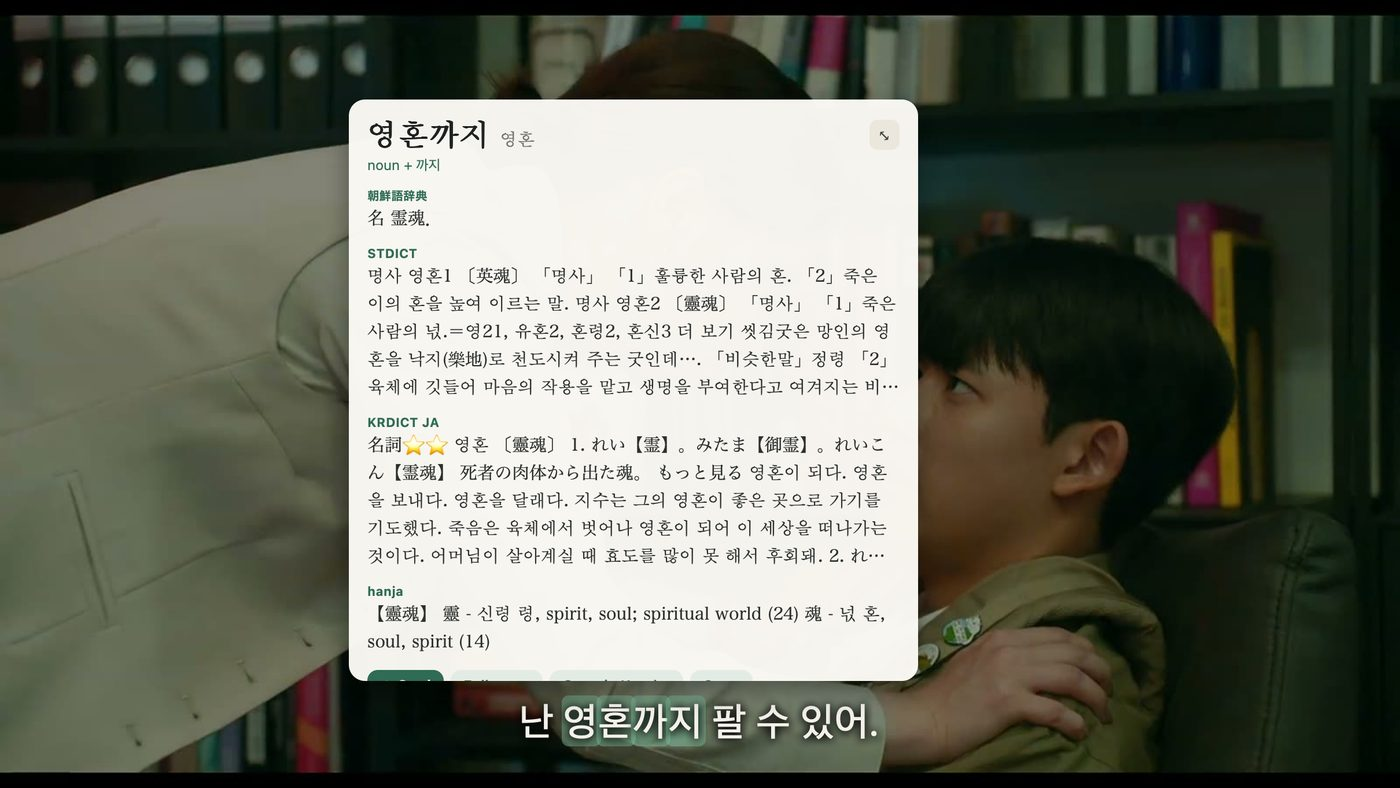
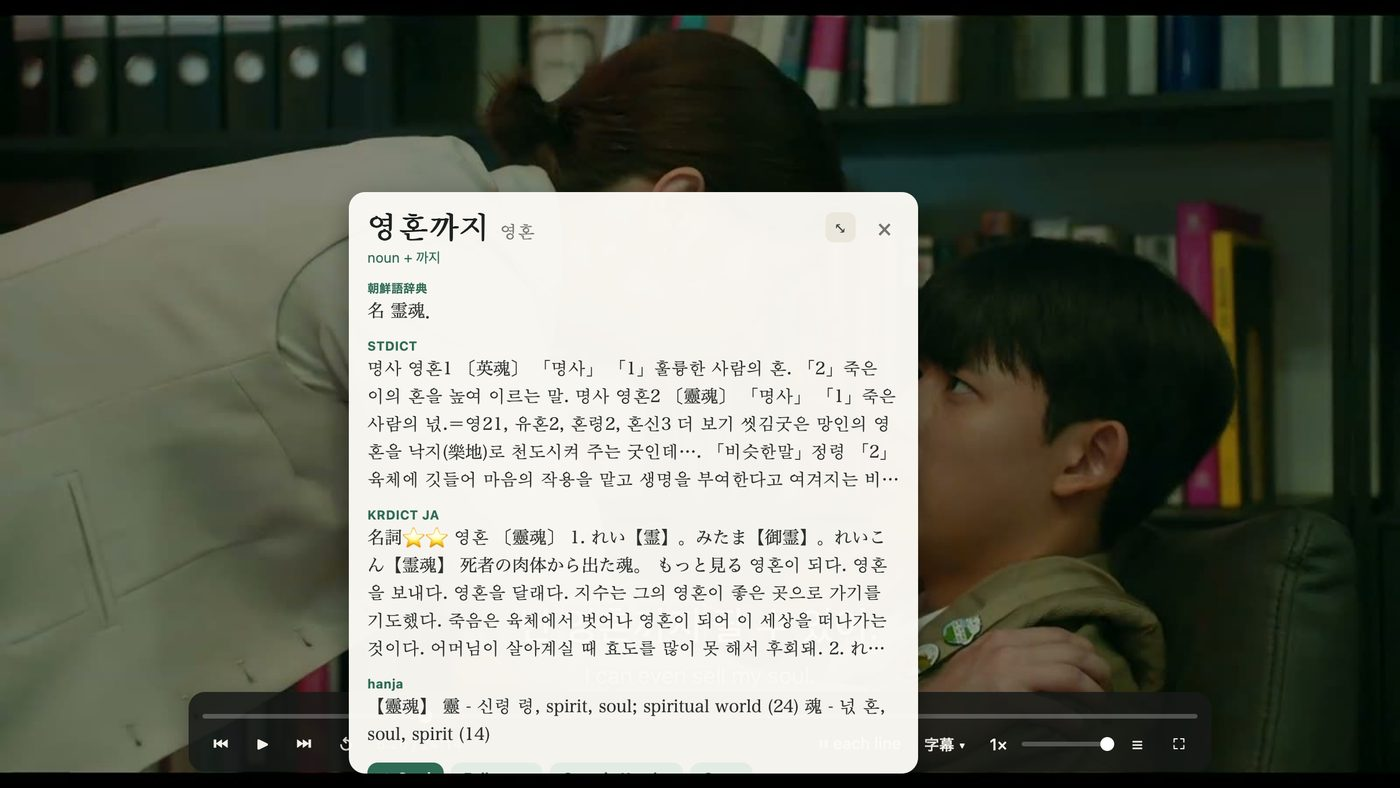
Lookup popups get a close button (player and Firefox helper)

Changed region(s): [[0.1229, 0.1218, 0.86, 1.0]]

diff --git a/desktop/web/kotoba-video.user.js b/desktop/web/kotoba-video.user.js
@@ -74,6 +74,8 @@
     #kotoba-video-pop .k-saved { margin-left: auto; color: #a8841e; font-size: 12px; font-weight: 600; }
     #kotoba-video-pop .k-size { align-self: center; margin-left: auto; border: 0; background: #ece7dc; color: #3d433f; border-radius: 7px; width: 26px; height: 26px; font-size: 17px; line-height: 26px; padding: 0; cursor: pointer; }
     #kotoba-video-pop .k-saved:not(:empty) + .k-size { margin-left: 6px; }
+    #kotoba-video-pop .k-close { align-self: center; margin-left: 4px; border: 0; background: transparent; color: #72766f; border-radius: 7px; width: 26px; height: 26px; font-size: 21px; line-height: 24px; padding: 0; cursor: pointer; }
+    #kotoba-video-pop .k-close:hover { background: #ece7dc; color: #1d211f; }
     #kotoba-video-pop .k-explain { color: #2f6b55; font-size: 12px; }
     #kotoba-video-pop .k-dict { font-size: 11px; font-weight: 700; color: #2f6b55; margin-top: 5px; }
     #kotoba-video-pop.k-big .k-dict { margin-top: 8px; }
@@ -208,7 +210,7 @@
     const byDict = []; for (const it of res.items) if (!byDict.some(x => x.dict === it.dict) && it.kind !== 'kanji') byDict.push(it);
     const items = byDict.slice(0, 4);
     const written = res.written && res.written !== res.key ? res.written : res.key;
-    pop.innerHTML = `<div class="k-head"><b class="k-word">${esc(written)}</b>${written !== res.key ? `<span class="k-key">${esc(res.key)}</span>` : ''}<span class="k-freq"></span><span class="k-saved"></span><button class="k-size" data-k="size" title="Bigger / smaller popup">${big() ? '⤡' : '⤢'}</button></div>
+    pop.innerHTML = `<div class="k-head"><b class="k-word">${esc(written)}</b>${written !== res.key ? `<span class="k-key">${esc(res.key)}</span>` : ''}<span class="k-freq"></span><span class="k-saved"></span><button class="k-size" data-k="size" title="Bigger / smaller popup">${big() ? '⤡' : '⤢'}</button><button class="k-close" data-k="close" title="Close (Esc)">×</button></div>
       ${res.explain ? `<div class="k-explain">${esc(res.explain)}</div>` : ''}
       ${items.map((it, n) => `<div class="${n ? 'k-more' : ''}"><div class="k-dict">${esc(shortName(it.dictionary))}${it.page && it.page !== it.key ? ' · ' + esc(it.page) : ''}</div><div class="k-text" data-n="${n}">…</div></div>`).join('')}
       <div class="k-actions"><button data-k="card">＋ Card</button><button class="k-more" data-k="open">Open in Kotoba</button><button class="k-more" data-k="copy">Copy</button></div>`;
@@ -261,6 +263,7 @@
     pinned = true;
     const b = e.target.closest('[data-k]'); if (!b || !shown) return;
     const res = shown, it = pop.items && pop.items[0];
+    if (b.dataset.k === 'close') { hidePop(); return; }
     if (b.dataset.k === 'size') {
       store.set('kotoba.popBig', big() ? '0' : '1');
       pop.classList.toggle('k-big', big()); b.textContent = big() ? '⤡' : '⤢';

diff --git a/desktop/web/player.js b/desktop/web/player.js
@@ -237,7 +237,7 @@ async function showPop(res,cue,r1,r2,P=pop){
     const items=byDict.slice(0,4);
     // The word as the subtitle writes it (門口), with the dictionary's form when that differs (门口, 食べる).
     const shown=res.written&&res.written!==res.key?res.written:res.key;
-    P.el.innerHTML=`<div class="p-head"><b class="p-word">${esc(shown)}</b>${shown!==res.key?`<span class="p-key">${esc(res.key)}</span>`:''}<span class="p-freq"></span><span class="p-saved"></span><button class="p-size" data-p="size" title="Bigger / smaller popup"></button></div>
+    P.el.innerHTML=`<div class="p-head"><b class="p-word">${esc(shown)}</b>${shown!==res.key?`<span class="p-key">${esc(res.key)}</span>`:''}<span class="p-freq"></span><span class="p-saved"></span><button class="p-size" data-p="size" title="Bigger / smaller popup"></button><button class="p-close" data-p="close" title="Close (Esc)">×</button></div>
       ${res.explain?`<div class="p-explain">${esc(res.explain)}</div>`:''}
       <div class="p-defs">${items.map((it,n)=>`<div class="p-def" data-n="${n}"><div class="p-dict">${esc(shortName(it.dictionary))}${it.page&&it.page!==it.key?` · ${esc(it.page)}`:''}</div><div class="p-text">…</div></div>`).join('')}</div>
       <div class="p-full" hidden></div>
@@ -328,6 +328,12 @@ async function onPopClick(P,e){
   pop.pinned=true;
   const b=e.target.closest('[data-p]');if(!b)return;
   const res=P.res,it=P.items&&P.items[0];
+  if(b.dataset.p==='close'){
+    // × closes this popup and the ones opened from it; the first one also resumes the video.
+    if(P.level){closeFrom(P.level);stack[P.level-1].el.querySelectorAll('.dch.hl').forEach(x=>x.classList.remove('hl'));defAt=null;}
+    else{hidePop();resumeAfterHover();}
+    return;
+  }
   if(b.dataset.p==='size'){
     // Compact by default (first dictionary, two lines); ⤢ shows every dictionary and the other actions.
     const big=!P.el.classList.contains('big');

diff --git a/desktop/web/player.css b/desktop/web/player.css
@@ -31,6 +31,8 @@ body.idle #subs{bottom:34px}
 .p-size{align-self:center;margin-left:auto;border:0;background:#ece7dc;color:#3d433f;border-radius:7px;width:26px;height:26px;font-size:17px;line-height:26px;cursor:pointer;padding:0}
 .p-saved+.p-size,.p-saved:not(:empty)+.p-size{margin-left:6px}
 .p-size::before{content:'⤢'}
+.p-close{align-self:center;margin-left:4px;border:0;background:transparent;color:#72766f;border-radius:7px;width:26px;height:26px;font-size:21px;line-height:24px;cursor:pointer;padding:0}
+.p-close:hover{background:#ece7dc;color:#1d211f}
 .kpop.big .p-size::before{content:'⤡'}
 .p-explain{color:#2f6b55;font-size:12px;margin-top:1px}
 .p-defs{margin-top:5px;display:flex;flex-direction:column;gap:9px}

diff --git a/desktop/README.md b/desktop/README.md
@@ -61,7 +61,8 @@ categories, read chapters) by itself. Covers come from `mihon-covers/` in the da
 - The popup is compact by default: the word, its grammar breakdown, the first dictionary's definition in two lines and
   ＋ Card. ⤢ expands it to every dictionary, Full entry, Open in Kotoba and Copy; the size you pick is remembered.
 - Words inside a definition can be looked up too: hold Shift over one and a second popup opens beside it (and so on).
-  Releasing Shift while the pointer is over a popup keeps it open; clicking elsewhere closes them all.
+  Releasing Shift while the pointer is over a popup keeps it open. × closes a popup (and any opened from it); Esc or
+  clicking elsewhere closes them all. The Firefox helper's popup has the same ⤢ and ×.
 - Keys: Space play/pause · ←/→ 5 s (⇧ 1 s) · A/D previous/next line · S replay line · P pause after each line ·
   T transcript · Z/X subtitle delay · [ ] speed · −/= subtitle size · F full screen · M mute.
 - ＋ Card saves the word with the subtitle line as its example and the episode and time as a note.
